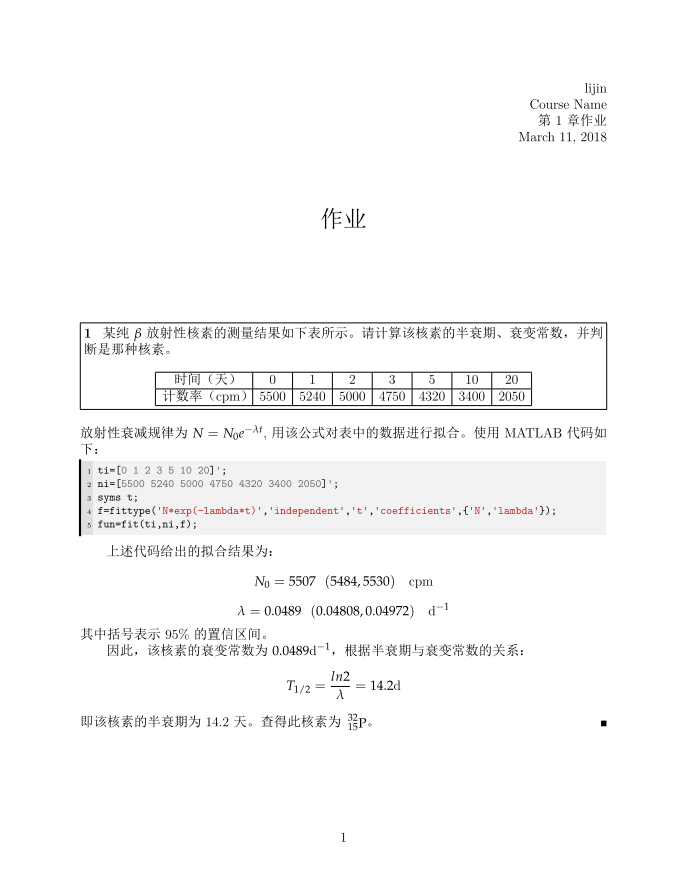
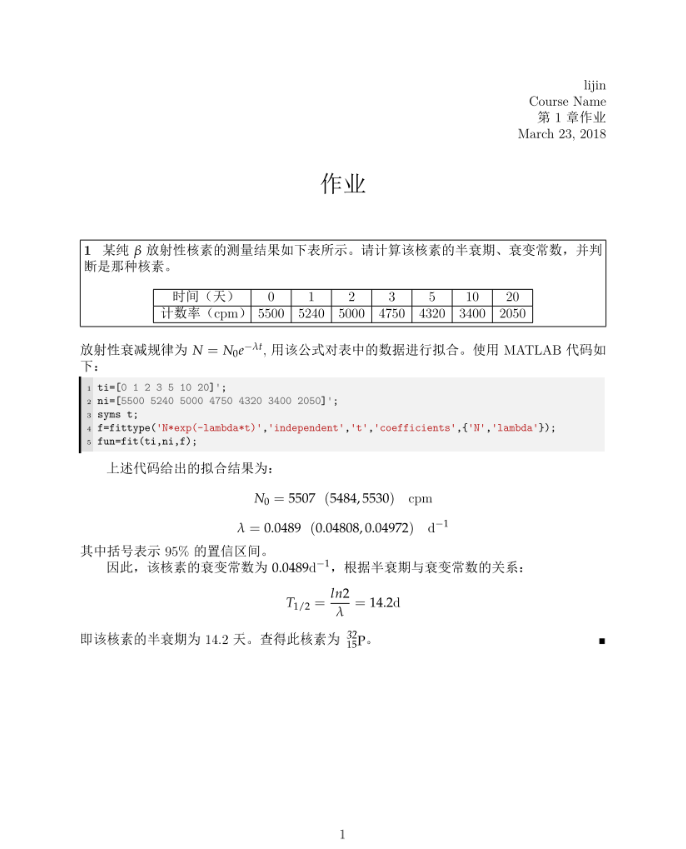
update eg

diff --git a/ljhwh.tex b/ljhwh.tex
@@ -57,6 +57,21 @@
 %-----------
 \usepackage[version=4]{mhchem}
 
+% 国际制单位
+\usepackage{siunitx}
+
+% 有序列表
+\usepackage{enumitem}
+
+% 三线表可用
+\usepackage{booktabs}
+
+% 表格内斜线，可用于添加斜线表头，也可用于绘制其他表格内的斜线
+\usepackage{diagbox}
+
+% 插入带颜色超链接
+\usepackage[colorlinks,linkcolor=blue]{hyperref}
+
 %-----------
 % 代码排版
 %-----------

diff --git a/eg.tex b/eg.tex
@@ -7,7 +7,7 @@
 
 \begin{document}
 
-\title{作业}
+\title{\vspace{-1cm}作业\vspace{-1.5cm}}
 \date{}
 \inlinemaketitle
 
